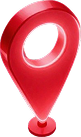
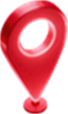
fix(map): tune hospital marker render contract

diff --git a/components/emergency/intake/EmergencyLocationPreviewMap.jsx b/components/emergency/intake/EmergencyLocationPreviewMap.jsx
@@ -39,11 +39,27 @@ const DEFAULT_REGION = {
   latitudeDelta: 0.012,
   longitudeDelta: 0.012,
 };
+/*
+HOSPITAL_MARKER_SIZE_CHECKPOINT={
+  "baseCommit":"2afd31c793a315018aa76843190197d0bd50a7e8",
+  "doc":"docs/audit/map/HOSPITAL_MARKER_SIZE_CHECKPOINT.json",
+  "rollback":"git restore --source 2afd31c -- assets/map/hospital.png assets/map/selected_hospital.png components/emergency/intake/EmergencyLocationPreviewMap.jsx components/emergency/intake/EmergencyHospitalRoutePreview.jsx components/map/HospitalMarkers.jsx",
+  "scope":"live /map hospital markers",
+  "native":{"normal":"54x91","selected":"68x114"},
+  "web":{"normal":"28x48","selected":"38x64"}
+}
+*/
 const HOSPITAL_MARKER_IMAGE = require("../../../assets/map/hospital.png");
 const SELECTED_HOSPITAL_MARKER_IMAGE = require("../../../assets/map/selected_hospital.png");
-const HOSPITAL_MARKER_HEIGHT = {
-  normal: 102.5,
-  selected: 137,
+const HOSPITAL_MARKER_DIMENSIONS = {
+  native: {
+    normal: { width: 54, height: 91 },
+    selected: { width: 68, height: 114 },
+  },
+  web: {
+    normal: { width: 28, height: 48 },
+    selected: { width: 38, height: 64 },
+  },
 };
 
 const toCoordinate = normalizeCoordinate;
@@ -254,13 +270,18 @@ function getWebRoutePanOffset(
   );
 }
 
-function getHospitalMarkerCenterOffset(isSelected) {
+function getHospitalMarkerDimensions(isSelected, isWeb) {
+  const platformMetrics = isWeb
+    ? HOSPITAL_MARKER_DIMENSIONS.web
+    : HOSPITAL_MARKER_DIMENSIONS.native;
+  return isSelected ? platformMetrics.selected : platformMetrics.normal;
+}
+
+function getHospitalMarkerCenterOffset(isSelected, isWeb) {
+  const { height } = getHospitalMarkerDimensions(isSelected, isWeb);
   return {
     x: 0,
-    y:
-      -(isSelected
-        ? HOSPITAL_MARKER_HEIGHT.selected
-        : HOSPITAL_MARKER_HEIGHT.normal) / 6,
+    y: -height / 6,
   };
 }
 
@@ -1086,18 +1107,14 @@ export default function EmergencyLocationPreviewMap({
               key={hospital?.id || `${hospital?.name || "hospital"}-${index}`}
               coordinate={coordinate}
               anchor={{ x: 0.5, y: 0.5 }}
-              centerOffset={getHospitalMarkerCenterOffset(isSelected)}
+              centerOffset={getHospitalMarkerCenterOffset(isSelected, isWeb)}
               zIndex={isSelected ? 100 : 10 - index}
               image={
                 isSelected
                   ? SELECTED_HOSPITAL_MARKER_IMAGE
                   : HOSPITAL_MARKER_IMAGE
               }
-              imageSize={
-                isSelected
-                  ? { width: 81, height: 137 }
-                  : { width: 60.75, height: 102.5 }
-              }
+              imageSize={getHospitalMarkerDimensions(isSelected, isWeb)}
               tracksViewChanges={tracksMarkerViews}
               title={hospital?.name || "Hospital"}
               onPress={

diff --git a/components/emergency/intake/EmergencyHospitalRoutePreview.jsx b/components/emergency/intake/EmergencyHospitalRoutePreview.jsx
@@ -22,11 +22,24 @@ import useMarkerRenderPulse from "../../../hooks/map/useMarkerRenderPulse";
 import { normalizeCoordinate } from "../../../utils/emergencyContextHelpers";
 
 const HOSPITAL_MARKER_IMAGE = require("../../../assets/map/selected_hospital.png");
+/*
+HOSPITAL_MARKER_SIZE_CHECKPOINT={
+  "baseCommit":"2afd31c793a315018aa76843190197d0bd50a7e8",
+  "doc":"docs/audit/map/HOSPITAL_MARKER_SIZE_CHECKPOINT.json",
+  "rollback":"git restore --source 2afd31c -- assets/map/hospital.png assets/map/selected_hospital.png components/emergency/intake/EmergencyLocationPreviewMap.jsx components/emergency/intake/EmergencyHospitalRoutePreview.jsx components/map/HospitalMarkers.jsx",
+  "scope":"legacy route preview selected hospital marker",
+  "native":{"selected":"68x114"},
+  "web":{"selected":"38x64"}
+}
+*/
 
-const HOSPITAL_MARKER_HEIGHT = 137;
+const HOSPITAL_MARKER_DIMENSIONS =
+  Platform.OS === "web"
+    ? { width: 38, height: 64 }
+    : { width: 68, height: 114 };
 const HOSPITAL_MARKER_CENTER_OFFSET = {
   x: 0,
-  y: -HOSPITAL_MARKER_HEIGHT / 6,
+  y: -HOSPITAL_MARKER_DIMENSIONS.height / 6,
 };
 const ORIGIN_MARKER_COLOR = "#3B82F6";
 const toCoordinate = normalizeCoordinate;
@@ -357,7 +370,7 @@ export default function EmergencyHospitalRoutePreview({
             <Marker
               coordinate={hospitalCoordinate}
               image={HOSPITAL_MARKER_IMAGE}
-              imageSize={{ width: 81, height: 137 }}
+              imageSize={HOSPITAL_MARKER_DIMENSIONS}
               pinColor={COLORS.brandPrimary}
               anchor={{ x: 0.5, y: 0.5 }}
               centerOffset={HOSPITAL_MARKER_CENTER_OFFSET}

diff --git a/components/map/HospitalMarkers.jsx b/components/map/HospitalMarkers.jsx
@@ -3,14 +3,23 @@ import { Marker } from "./MapComponents";
 
 const LOGO_MARKER_IMAGE = require("../../assets/map/hospital.png");
 const LOGO_MARKER_IMAGE_SELECTED = require("../../assets/map/selected_hospital.png");
+/*
+HOSPITAL_MARKER_SIZE_CHECKPOINT={
+  "baseCommit":"2afd31c793a315018aa76843190197d0bd50a7e8",
+  "doc":"docs/audit/map/HOSPITAL_MARKER_SIZE_CHECKPOINT.json",
+  "rollback":"git restore --source 2afd31c -- assets/map/hospital.png assets/map/selected_hospital.png components/emergency/intake/EmergencyLocationPreviewMap.jsx components/emergency/intake/EmergencyHospitalRoutePreview.jsx components/map/HospitalMarkers.jsx",
+  "scope":"alternate hospital marker owner",
+  "native":{"normal":"54x91","selected":"68x114"}
+}
+*/
 
 // Design-provided image dimensions:
-// hospital: 60.75 x 102.5
-// selected_hospital: 81 x 137
+// hospital: 54 x 91
+// selected_hospital: 68 x 114
 // With anchor at center, pin bottom tip to coordinate by shifting up half height.
 const MARKER_HEIGHT = {
-	normal: 102.5,
-	selected: 137,
+	normal: 91,
+	selected: 114,
 };
 
 const getBottomPinnedCenterOffset = (isSelected) => ({

diff --git a/docs/audit/map/HOSPITAL_MARKER_RENDER_RULE_2026-05-06.md b/docs/audit/map/HOSPITAL_MARKER_RENDER_RULE_2026-05-06.md
@@ -1,0 +1,68 @@
+# Hospital Marker Render Rule 2026-05-06
+
+## Outcome
+
+The hospital marker issue was fixed in the staging build once the marker contract matched the real cross-platform render behavior.
+
+Current checkpoint:
+- Web hospital marker: `28 x 48`
+- Web selected hospital marker: `38 x 64`
+- Native hospital marker: `54 x 91`
+- Native selected hospital marker: `68 x 114`
+
+Primary owners:
+- [EmergencyLocationPreviewMap.jsx](../../../components/emergency/intake/EmergencyLocationPreviewMap.jsx)
+- [HospitalMarkers.jsx](../../../components/map/HospitalMarkers.jsx)
+- [EmergencyHospitalRoutePreview.jsx](../../../components/emergency/intake/EmergencyHospitalRoutePreview.jsx)
+
+Checkpoint ledger:
+- [HOSPITAL_MARKER_SIZE_CHECKPOINT.json](./HOSPITAL_MARKER_SIZE_CHECKPOINT.json)
+
+## What Actually Fixed It
+
+The fix was not "just make the markers smaller" or "just tweak JSX props."
+
+The real rule is:
+
+1. Web sizing is code-driven.
+   - On web, the map wrapper respects `imageSize`.
+   - So web marker scale changes only when the explicit width and height contract changes in code.
+
+2. Native sizing is asset-driven.
+   - On Expo native and APK builds, `react-native-maps` image markers use the actual PNG bitmap dimensions as the effective size contract.
+   - `imageSize` is not the reliable native sizing authority here.
+
+3. The live `/map` owner is not the only marker owner.
+   - The main live owner is `EmergencyLocationPreviewMap.jsx`.
+   - But `HospitalMarkers.jsx` and `EmergencyHospitalRoutePreview.jsx` must stay aligned or another map surface will drift later.
+
+## The Secret
+
+The "secret" was to split the contract instead of forcing one fake universal size path:
+
+- Web was fixed by shrinking the explicit `imageSize` contract.
+- Native was fixed by enlarging the actual PNG assets to the desired release size.
+
+That is why:
+- web changed only when the JSX sizes changed
+- Expo and APK changed only when `hospital.png` and `selected_hospital.png` were resized
+
+## Guardrail
+
+When hospital markers change again:
+
+1. Update the web size contract in the live `/map` owner.
+2. Resize the native PNG assets if the native build should change.
+3. Keep all three hospital-marker owners in sync.
+4. Record the rollback command and checkpoint before publishing OTA.
+
+## Rollback
+
+Base checkpoint commit:
+- `2afd31c793a315018aa76843190197d0bd50a7e8`
+
+Restore command:
+
+```powershell
+git restore --source 2afd31c -- assets/map/hospital.png assets/map/selected_hospital.png components/emergency/intake/EmergencyLocationPreviewMap.jsx components/emergency/intake/EmergencyHospitalRoutePreview.jsx components/map/HospitalMarkers.jsx
+```

diff --git a/docs/audit/map/README.md b/docs/audit/map/README.md
@@ -4,14 +4,16 @@ Audits for map screen, tracking sheet, visit detail, routing, and related flows.
 
 ## Files
 
-- `MAP_TOP_LEFT_CONTROL_PRE_2026-05-03.md` — MapTopLeftControl pre-implementation audit (floating canvas circle, guest back + auth avatar)
-- `MAP_TOP_LEFT_CONTROL_POST_2026-05-03.md` — MapTopLeftControl post-implementation record
-- `MAP_CTA_STATE_CONTRACT_AUDIT_2026-05-02.md` — CTA state contract audit
-- `MAP_ENTITY_RENDER_STATE_CHECKPOINT_2026-05-01.md` — Entity render state checkpoint
-- `MAP_ROUTE_STATE_HARDENING_CHECKPOINT_2026-04-29.md` — Route state hardening
-- `MAP_ROUTE_STATE_IMPLEMENTATION_CHECKPOINT_2026-04-29.md` — Route state implementation
-- `DEMO_BOOTSTRAP_BLOAT_REMEDIATION_CHECKPOINT_2026-05-01.md` — Demo bootstrap bloat remediation
-- `TRACKING_SHEET_PHASE_AUDIT_2026-04-26.md` — Tracking sheet phase audit
-- `VISIT_DETAIL_PHASE_AUDIT_2026-04-27.md` — Visit detail phase audit
-- `PRE_TRACKING_PHASE_AUDIT_2026-04-27_FINAL.md` — Pre-tracking phase audit
-- `LAYOUT_RUNTIME_SHELL_AUDIT_2026-04-24.md` — Layout runtime shell audit
+- `HOSPITAL_MARKER_RENDER_RULE_2026-05-06.md` - Cross-platform hospital-marker fix rule: web uses imageSize, native uses PNG bitmap size.
+- `HOSPITAL_MARKER_SIZE_CHECKPOINT.json` - Machine-readable checkpoint and rollback ledger for the current hospital-marker contract.
+- `MAP_TOP_LEFT_CONTROL_PRE_2026-05-03.md` - MapTopLeftControl pre-implementation audit (floating canvas circle, guest back + auth avatar).
+- `MAP_TOP_LEFT_CONTROL_POST_2026-05-03.md` - MapTopLeftControl post-implementation record.
+- `MAP_CTA_STATE_CONTRACT_AUDIT_2026-05-02.md` - CTA state contract audit.
+- `MAP_ENTITY_RENDER_STATE_CHECKPOINT_2026-05-01.md` - Entity render state checkpoint.
+- `MAP_ROUTE_STATE_HARDENING_CHECKPOINT_2026-04-29.md` - Route state hardening.
+- `MAP_ROUTE_STATE_IMPLEMENTATION_CHECKPOINT_2026-04-29.md` - Route state implementation.
+- `DEMO_BOOTSTRAP_BLOAT_REMEDIATION_CHECKPOINT_2026-05-01.md` - Demo bootstrap bloat remediation.
+- `TRACKING_SHEET_PHASE_AUDIT_2026-04-26.md` - Tracking sheet phase audit.
+- `VISIT_DETAIL_PHASE_AUDIT_2026-04-27.md` - Visit detail phase audit.
+- `PRE_TRACKING_PHASE_AUDIT_2026-04-27_FINAL.md` - Pre-tracking phase audit.
+- `LAYOUT_RUNTIME_SHELL_AUDIT_2026-04-24.md` - Layout runtime shell audit.

diff --git a/docs/flows/README.md b/docs/flows/README.md
@@ -8,6 +8,8 @@ This folder contains distributed workflow maps by domain. The goal is to make ba
 - [emergency/workflow_map.md](./emergency/workflow_map.md): Deterministic emergency lifecycle from request to completion.
 - [emergency/DEMO_MODE_COVERAGE_FLOW.md](./emergency/DEMO_MODE_COVERAGE_FLOW.md): Demo bootstrap doctrine, active-pool rules, and cleanup runbook for sparse or sponsor-test coverage.
 - [../audit/map/DEMO_BOOTSTRAP_BLOAT_REMEDIATION_CHECKPOINT_2026-05-01.md](../audit/map/DEMO_BOOTSTRAP_BLOAT_REMEDIATION_CHECKPOINT_2026-05-01.md): Live remediation checkpoint for demo bootstrap bloat and Supabase cleanup.
+- [../audit/map/HOSPITAL_MARKER_RENDER_RULE_2026-05-06.md](../audit/map/HOSPITAL_MARKER_RENDER_RULE_2026-05-06.md): Cross-platform hospital-marker rule after the staging fix: web is code-sized, native is asset-sized.
+- [../audit/map/HOSPITAL_MARKER_SIZE_CHECKPOINT.json](../audit/map/HOSPITAL_MARKER_SIZE_CHECKPOINT.json): Machine-readable rollback and size contract ledger for the current hospital-marker checkpoint.
 - [../audit/map/MAP_ROUTE_STATE_HARDENING_CHECKPOINT_2026-04-29.md](../audit/map/MAP_ROUTE_STATE_HARDENING_CHECKPOINT_2026-04-29.md): Shared map route-state hardening, directions dedupe, and loop-fix checkpoint.
 - [../audit/map/MAP_ENTITY_RENDER_STATE_CHECKPOINT_2026-05-01.md](../audit/map/MAP_ENTITY_RENDER_STATE_CHECKPOINT_2026-05-01.md): Marker/entity render hardening for hospital markers, user markers, and web marker stability.
 - [emergency/architecture/MAP_ROUTE_STATE_PASS_PLAN_V1.md](./emergency/architecture/MAP_ROUTE_STATE_PASS_PLAN_V1.md): Architecture contract for the full five-layer shared map route state.
